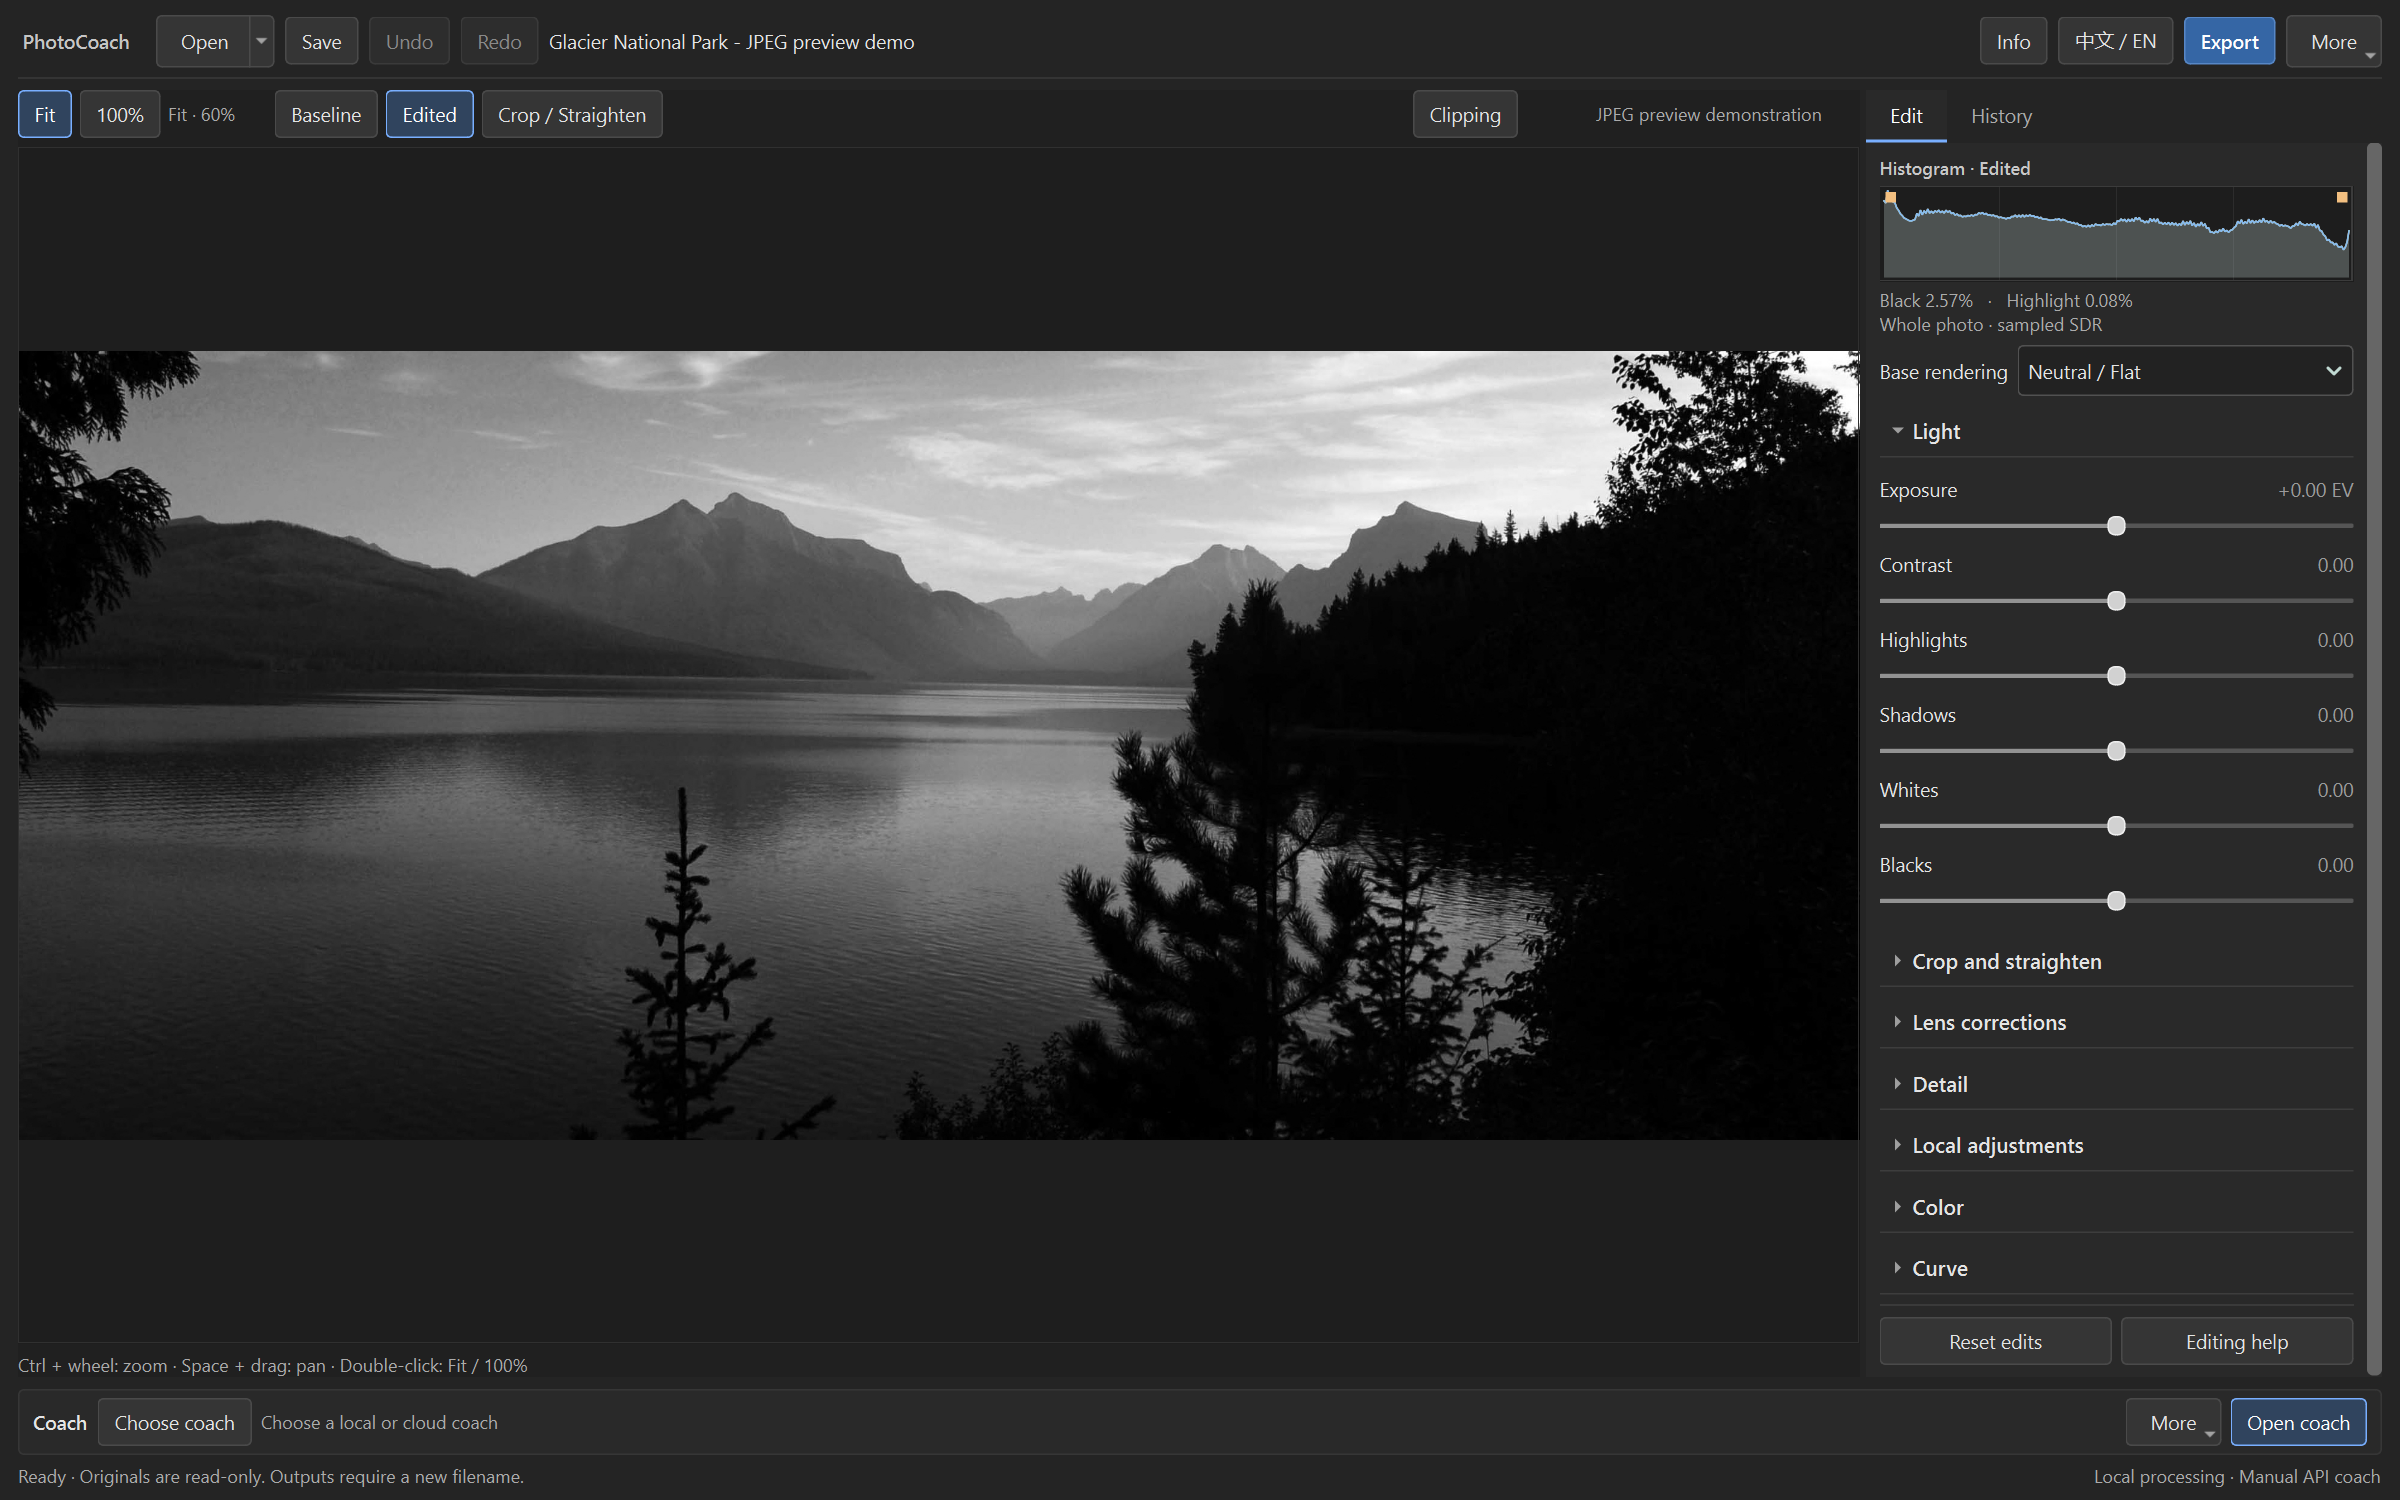
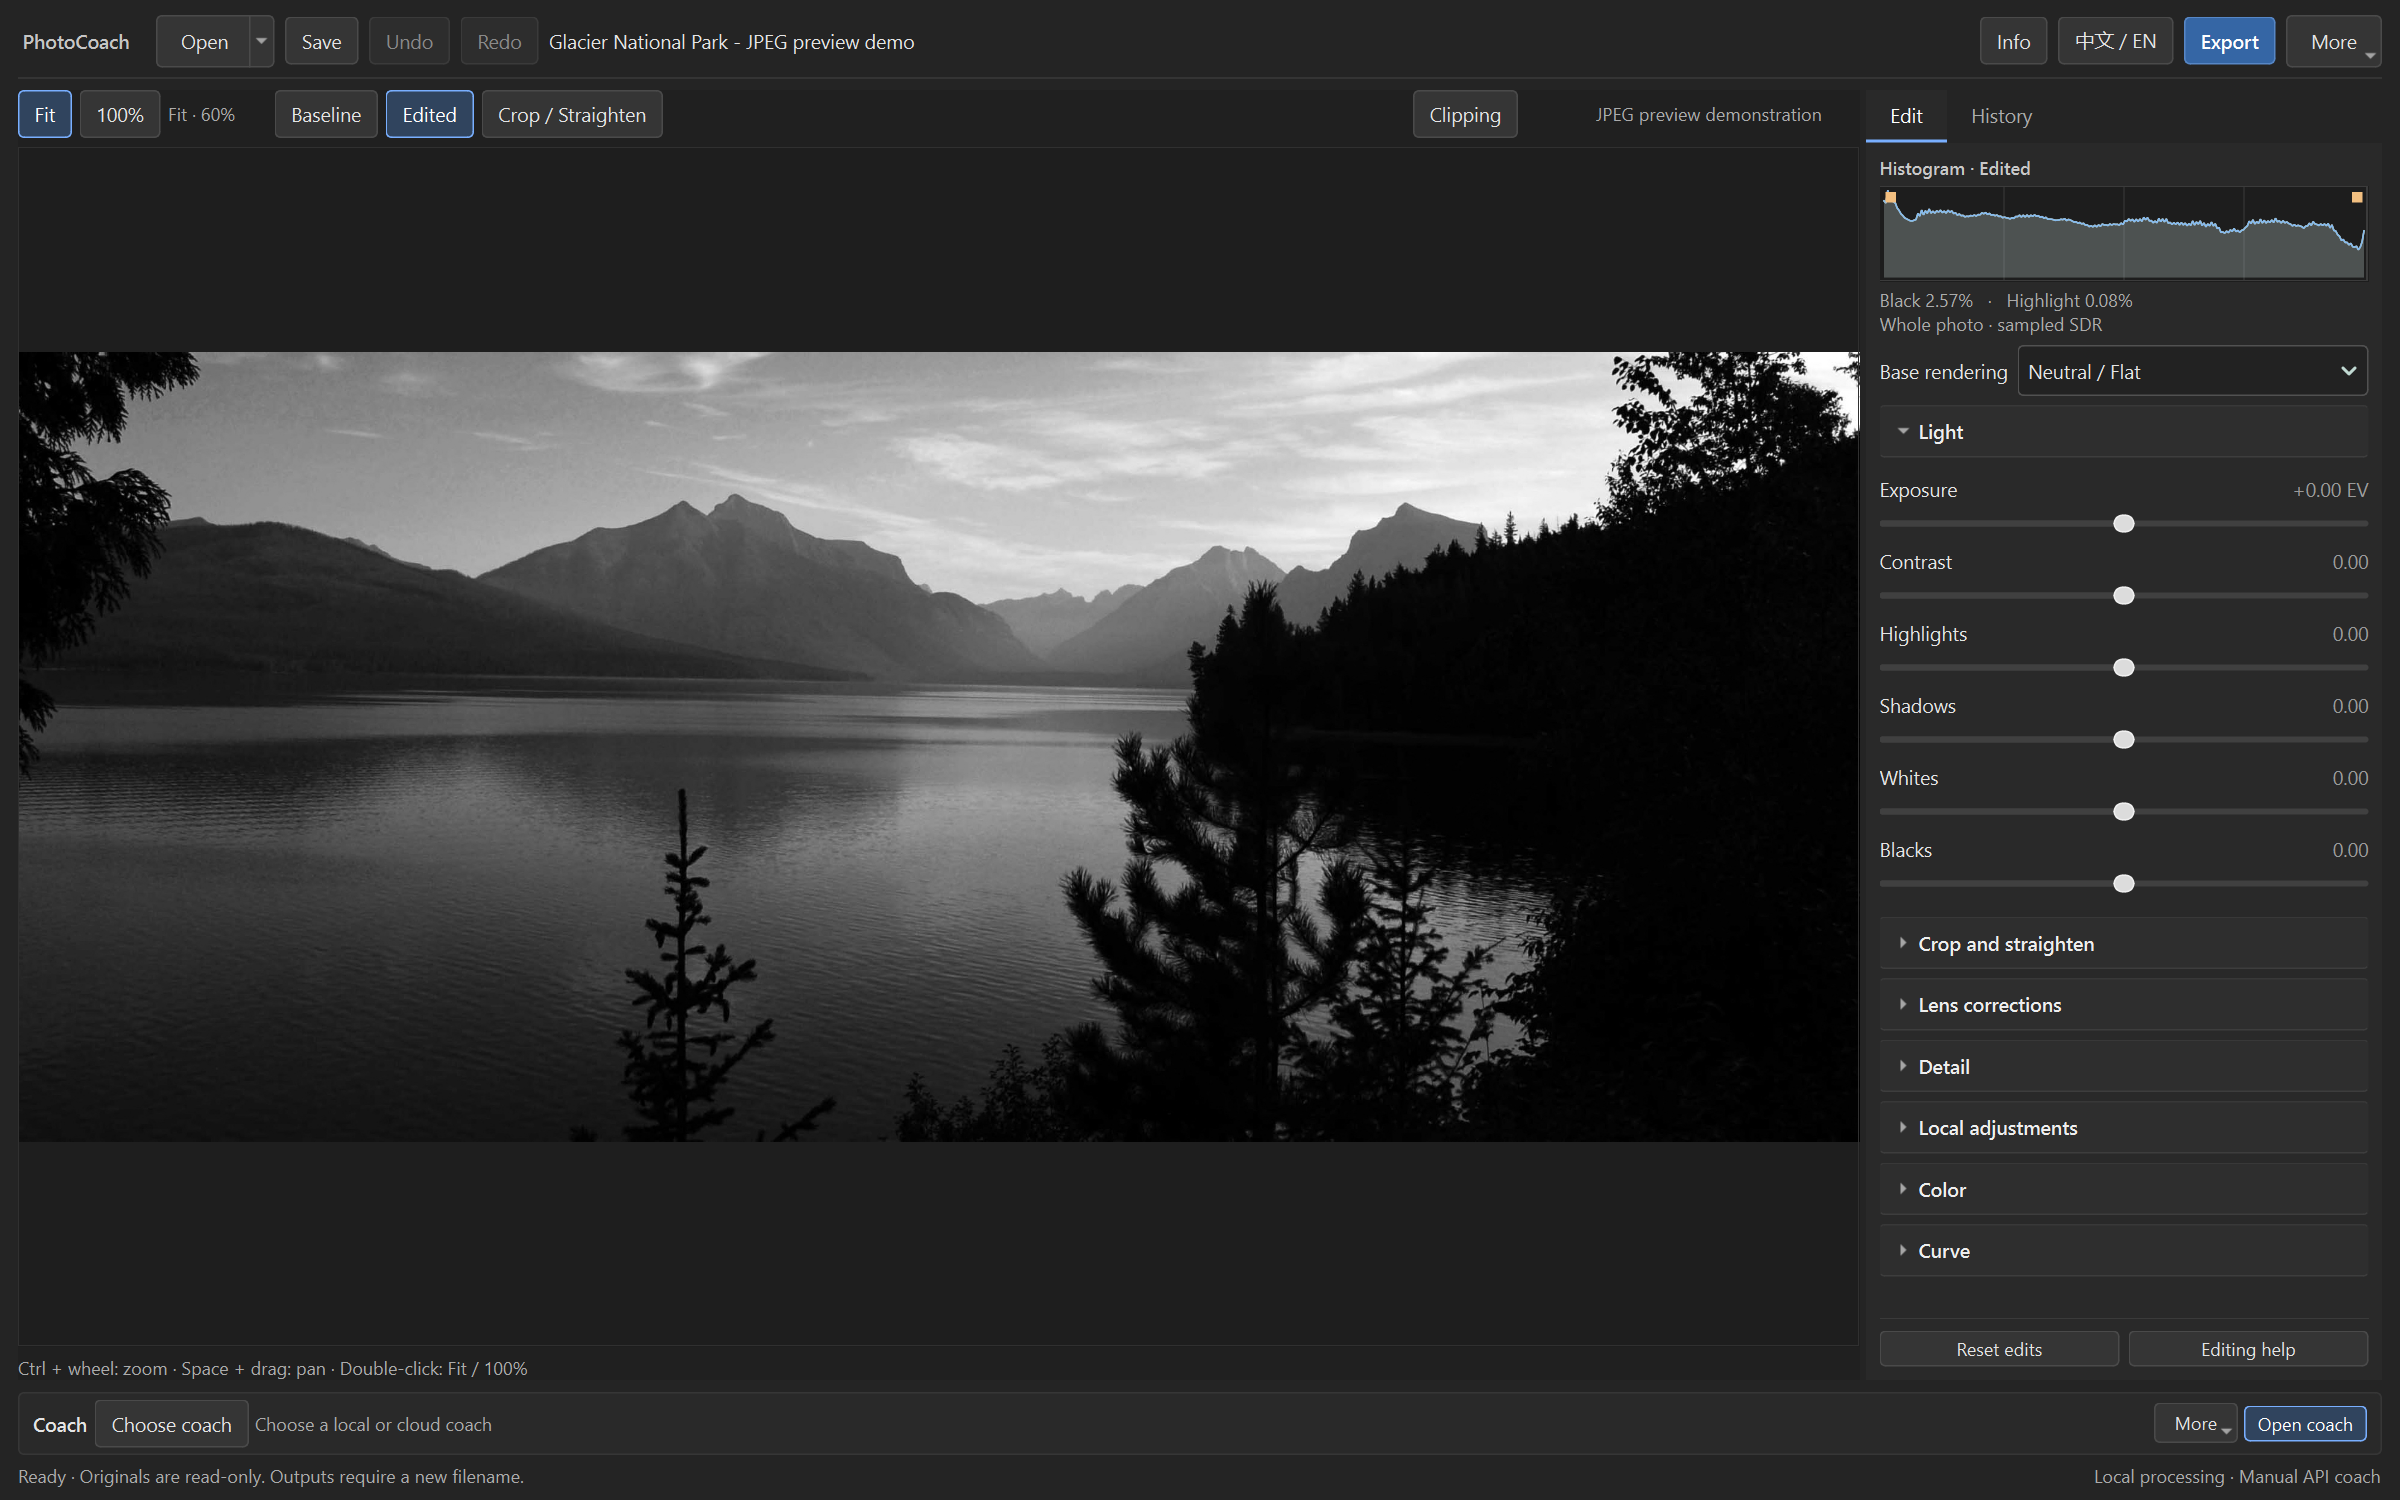
Refresh README summary, engineering section, and UI screenshot for 0.12.1

diff --git a/README.md b/README.md
@@ -1,8 +1,8 @@
 # PhotoCoach
 
-A Windows RAW photo editor with non-destructive adjustments and an optional AI coach that can see the current edit, its parameters, and the changes that led to it.
+A Windows RAW photo editor and bounded multimodal AI agent (`observe -> reason -> tool_call -> trial_render -> reflect -> finalize`) with non-destructive linear processing, active 1:1 demosaiced crop and Bayer CFA sensor inspection, visual reflexion trial self-repair, and a read-only Model Context Protocol (MCP) server.
 
-The original photograph stays untouched. Editing, project recovery, and export run locally. Cloud coaching starts only when you ask for it.
+The original photograph stays untouched. Editing, project recovery, and export run locally. Multimodal coaching starts only when you ask for it, and suggested edits apply only on explicit confirmation.
 
 ![PhotoCoach editor workspace](docs/images/editor.png)
 
@@ -57,11 +57,11 @@ py -3.12 -m venv .venv
 
 ## Engineering
 
-PySide6 provides the desktop interface. rawpy/LibRaw decodes RAW data into linear sRGB, NumPy applies edits, and Pillow/tifffile write exports.
+PySide6 provides the darkroom desktop interface. rawpy/LibRaw decodes RAW data into linear sRGB, NumPy applies edits, and Pillow/tifffile write exports.
 
-Immutable editing snapshots separate user actions from background work. Results carry source, revision, viewport and quality identifiers so an older job cannot overwrite a newer view. Rendering uses bounded strips, reusable decoded data and coalesced preview requests. Spatial filters use halo padding so settled 100% regions agree with exports.
+Immutable editing snapshots separate user actions from background work. Results carry source, revision, viewport and quality identifiers so an older job cannot overwrite a newer view. Rendering uses bounded strips, reusable decoded data, a seamless zoom pyramid, and coalesced preview requests. Spatial detail filters run at native pixel scale with halo padding so settled 100% regions match exports.
 
-Rendering and model requests have separate lifecycles. A photo, question, edit or coach change invalidates outdated suggestions. Validated relative actions become fixed targets for the analyzed revision and apply as one undo step. Requests are never retried automatically.
+The multimodal coaching engine runs on a bounded state-graph ReAct runtime (`AgentRuntime`) with explicit turn, tool, trial, and dollar-budget reservations (`RunBudget` / `SessionBudget`). Instead of relying on downscaled thumbnails alone, the agent actively invokes read-only diagnostic tools—1:1 demosaiced native crops (`inspect_region_100pct`), normalized Bayer CFA headroom probes (`probe_sensor_headroom`), 8-band HSL/CIELAB zoning (`analyze_hsl_zones`), and a bilingual BM25 Playbook RAG—then validates candidate edits through a sandboxed `propose_and_preview_trial` visual reflexion loop before presenting suggestions. The same schema-validated tool registry is exposed over a zero-bloat JSON-RPC `stdio` MCP server (`photocoach-mcp`).
 
 Read the [architecture](docs/architecture.md) for processing order, module boundaries and trade-offs.
 
